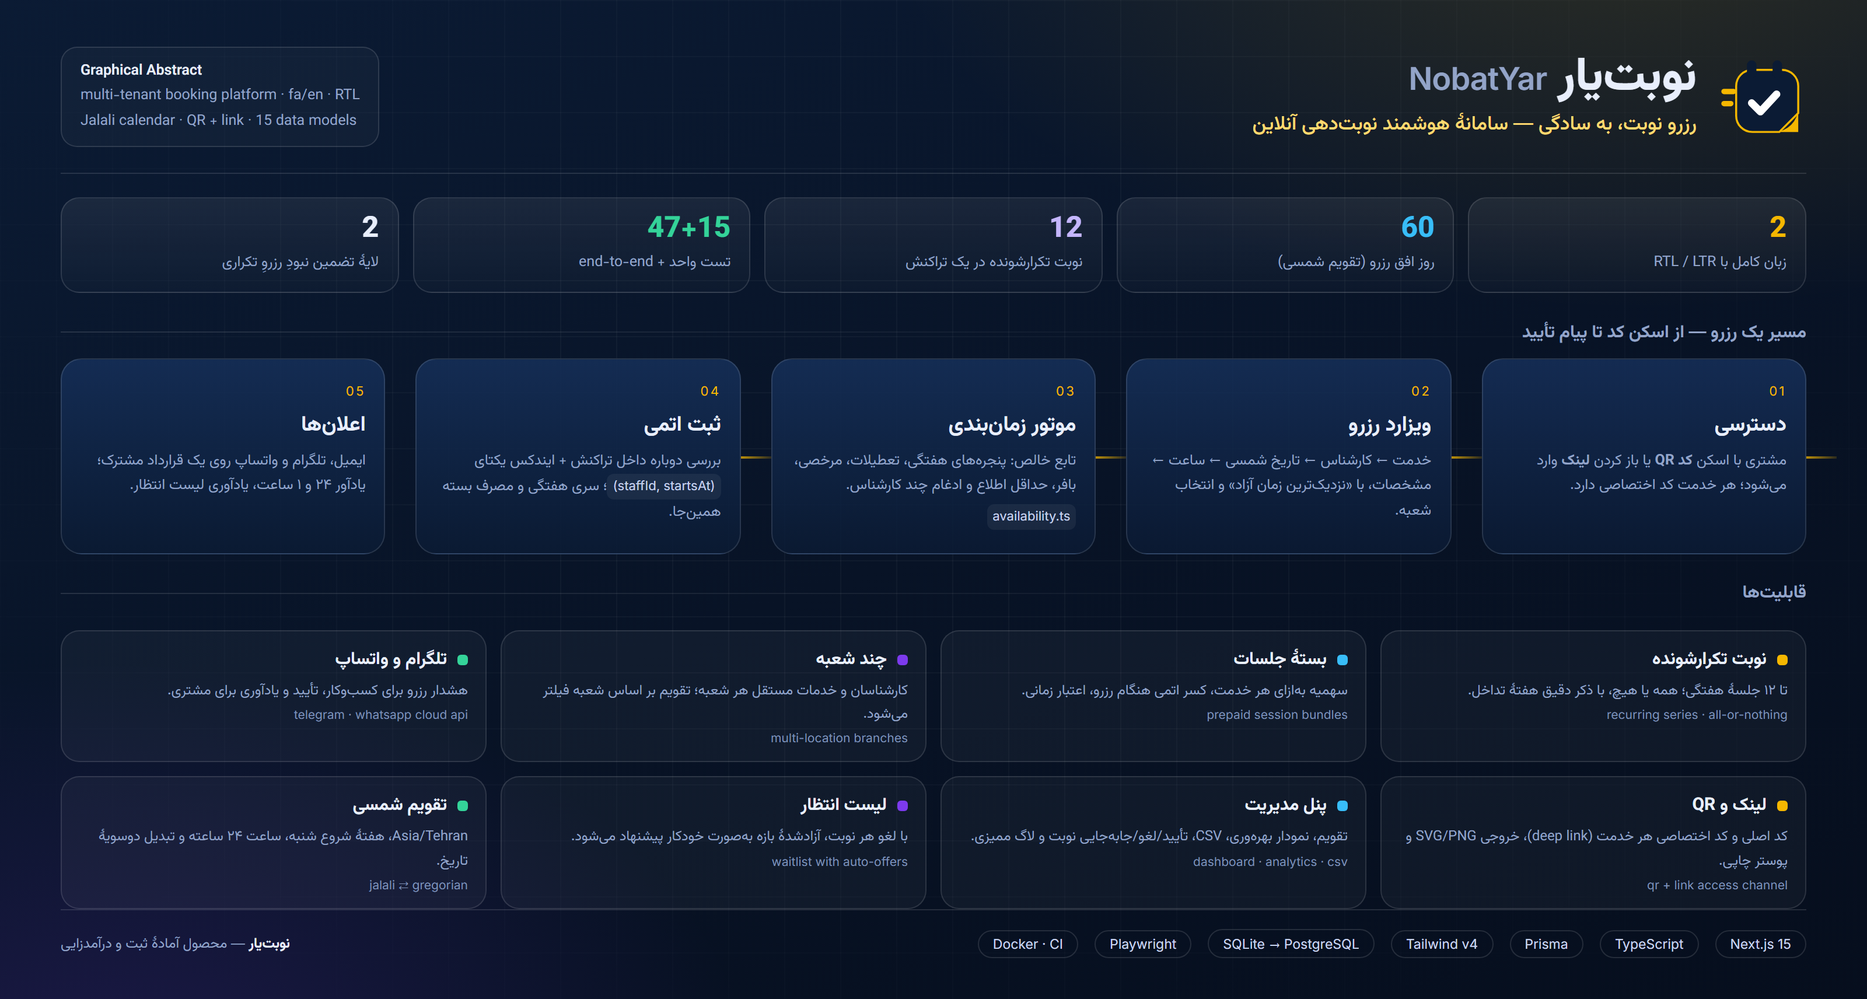
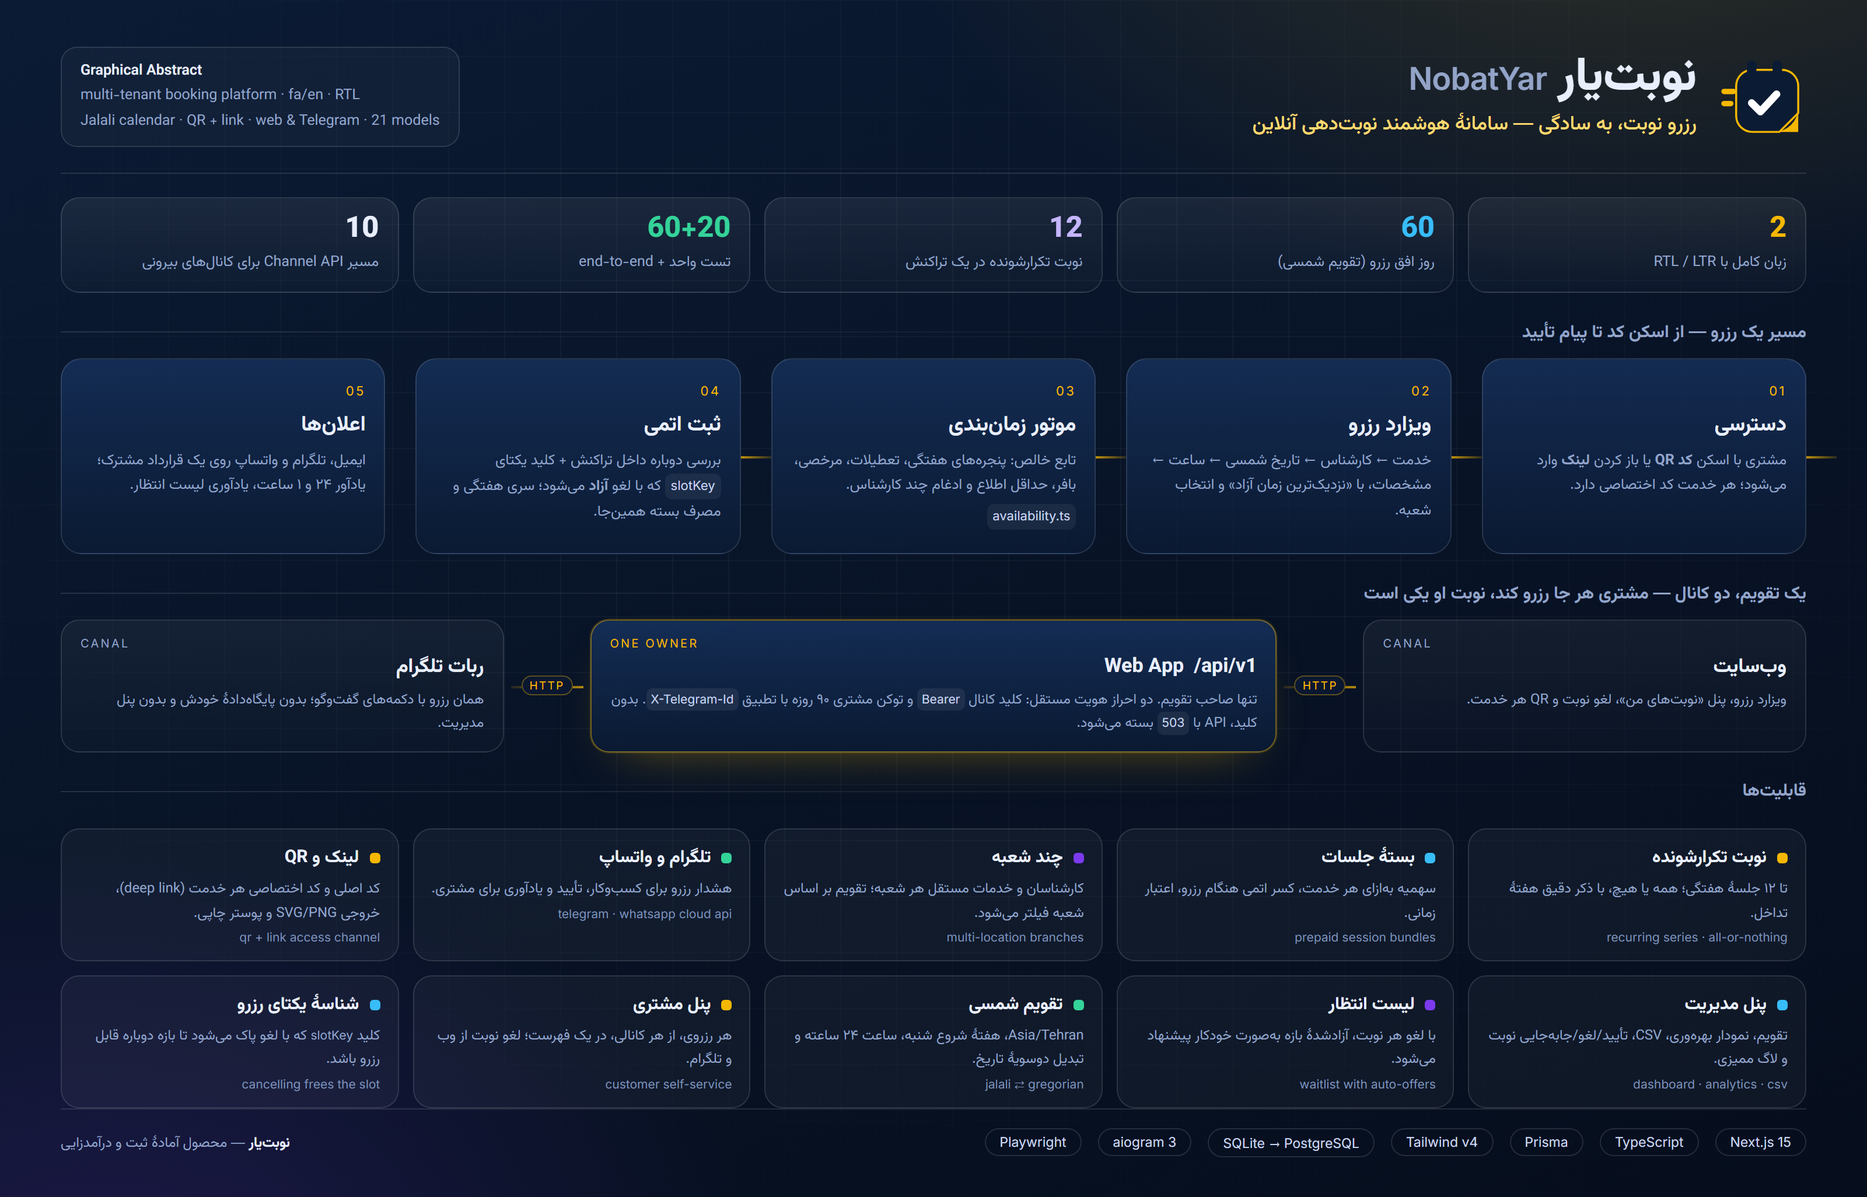
docs: redraw the graphical abstract for the current architecture
The abstract was drawn before the Telegram integration, so it described a
system that no longer exists, and in one place described a design that is a
known bug.

Corrected

* Step 04 claimed the double-booking guarantee was a unique index on
  (staffId, startsAt). That is precisely the design that made a cancelled slot
  permanently unbookable; the schema now uses a nullable unique slotKey. The
  abstract now says the key is cleared on cancellation, and a new feature card
  spells the rule out.
* Tests were 47 + 15; they are 60 unit + 20 end-to-end.
* "15 data models" is now 21, counted from prisma/schema.prisma.
* The last metric counted the channel API as 9 routes. It is 10 endpoints
  across 8 route files, because GET /waitlist existed but was missing from the
  API table in both READMEs -- that omission is where the wrong count came
  from. Added the missing row to both tables and corrected the figure in the
  abstract, GUIDE.md and the root README.
* "Docker . CI" dropped from the footer: the workflow sits in
  nobatyar/.github/workflows/, where GitHub never reads it, so it has never run.

Added

A channel band showing the decision the whole project rests on -- the website
and the Telegram bot as two equal channels around a single owner of the
calendar, with the two-credential contract and the fail-closed 503 in the
middle. The Telegram bot and the customer self-service panel were both absent
from the old abstract.
[…]

diff --git a/nobatyar/docs/graphical-abstract.html b/nobatyar/docs/graphical-abstract.html
@@ -185,10 +185,76 @@
         text-align: right;
       }
 
+      /* ── channels: one calendar, two front-ends ─────────── */
+      .channels {
+        display: grid;
+        grid-template-columns: 1fr 74px 1.55fr 74px 1fr;
+        align-items: stretch;
+        gap: 0;
+      }
+      .chan {
+        background: linear-gradient(180deg, rgba(255, 255, 255, 0.05), rgba(255, 255, 255, 0.015));
+        border: 1px solid var(--line);
+        border-radius: 16px;
+        padding: 13px 16px 14px;
+      }
+      .chan .n {
+        font-family: "Inter", sans-serif;
+        font-size: 10px;
+        letter-spacing: 0.16em;
+        color: var(--muted);
+        direction: ltr;
+        display: block;
+      }
+      .chan h3 { font-size: 17px; font-weight: 700; margin: 2px 0 5px; }
+      .chan p { font-size: 12px; line-height: 1.7; color: var(--muted); }
+      .chan code {
+        font-family: "Inter", monospace;
+        font-size: 10.5px;
+        color: #c7d3ee;
+        background: rgba(255, 255, 255, 0.07);
+        border-radius: 5px;
+        padding: 1px 4px;
+        direction: ltr;
+        display: inline-block;
+      }
+      /* the single owner of the calendar gets the emphasis */
+      .chan.core {
+        background: linear-gradient(180deg, rgba(22, 48, 90, 0.9), rgba(11, 27, 52, 0.9));
+        border-color: rgba(245, 183, 0, 0.45);
+        box-shadow: 0 0 0 1px rgba(245, 183, 0, 0.12), 0 18px 44px -26px rgba(245, 183, 0, 0.5);
+      }
+      .chan.core .n { color: var(--gold); }
+      .chan-arrow {
+        display: grid;
+        place-items: center;
+        position: relative;
+      }
+      .chan-arrow::before {
+        content: "";
+        position: absolute;
+        inset-inline: 6px;
+        top: 50%;
+        height: 2px;
+        background: linear-gradient(90deg, rgba(245, 183, 0, 0.12), rgba(245, 183, 0, 0.7));
+      }
+      .chan-arrow span {
+        position: relative;
+        font-family: "Inter", sans-serif;
+        font-size: 9.5px;
+        letter-spacing: 0.12em;
+        color: var(--gold);
+        background: #0a1730;
+        padding: 2px 6px;
+        border-radius: 999px;
+        border: 1px solid rgba(245, 183, 0, 0.35);
+        direction: ltr;
+      }
+
       /* ── features ───────────────────────────────────────────── */
       .features {
         display: grid;
-        grid-template-columns: repeat(4, 1fr);
+        grid-template-columns: repeat(5, 1fr);
         gap: 12px;
         margin-top: 10px;
       }
@@ -269,7 +335,7 @@
         <div class="kicker">
           <b>Graphical Abstract</b><br />
           multi-tenant booking platform · fa/en · RTL<br />
-          Jalali calendar · QR + link · 15 data models
+          Jalali calendar · QR + link · web &amp; Telegram · 21 models
         </div>
       </header>
 
@@ -277,8 +343,8 @@
         <div class="metric gold"><b>2</b><span>زبان کامل با RTL / LTR</span></div>
         <div class="metric sky"><b>60</b><span>روز افق رزرو (تقویم شمسی)</span></div>
         <div class="metric violet"><b>12</b><span>نوبت تکرارشونده در یک تراکنش</span></div>
-        <div class="metric green"><b>47+15</b><span>تست واحد + end-to-end</span></div>
-        <div class="metric"><b>2</b><span>لایهٔ تضمین نبودِ رزروِ تکراری</span></div>
+        <div class="metric green"><b>60+20</b><span>تست واحد + end-to-end</span></div>
+        <div class="metric"><b>10</b><span>مسیر Channel API برای کانالهای بیرونی</span></div>
       </section>
 
       <div class="section-title">مسیر یک رزرو — از اسکن کد تا پیام تأیید</div>
@@ -303,12 +369,38 @@
         <div class="step">
           <span class="n">04</span>
           <h3>ثبت اتمی</h3>
-          <p>بررسی دوباره داخل تراکنش + ایندکس یکتای <code>(staffId, startsAt)</code>؛ سری هفتگی و مصرف بسته همینجا.</p>
+          <p>بررسی دوباره داخل تراکنش + کلید یکتای <code>slotKey</code> که با لغو <b>آزاد</b> میشود؛ سری هفتگی و مصرف بسته همینجا.</p>
         </div>
         <div class="step">
           <span class="n">05</span>
           <h3>اعلانها</h3>
           <p>ایمیل، تلگرام و واتساپ روی یک قرارداد مشترک؛ یادآور ۲۴ و ۱ ساعت، یادآوری لیست انتظار.</p>
+        </div>
+      </section>
+
+      <div class="section-title">یک تقویم، دو کانال — مشتری هر جا رزرو کند، نوبت او یکی است</div>
+
+      <section class="channels">
+        <div class="chan">
+          <span class="n">CANAL</span>
+          <h3>وبسایت</h3>
+          <p>ویزارد رزرو، پنل «نوبتهای من»، لغو نوبت و QR هر خدمت.</p>
+        </div>
+        <div class="chan-arrow"><span>HTTP</span></div>
+        <div class="chan core">
+          <span class="n">ONE OWNER</span>
+          <h3>Web App &nbsp;/api/v1</h3>
+          <p>
+            تنها صاحب تقویم. دو احراز هویت مستقل: کلید کانال
+            <code>Bearer</code> و توکن مشتری ۹۰ روزه با تطبیق <code>X-Telegram-Id</code>.
+            بدون کلید، API با <code>503</code> بسته میشود.
+          </p>
+        </div>
+        <div class="chan-arrow"><span>HTTP</span></div>
+        <div class="chan">
+          <span class="n">CANAL</span>
+          <h3>ربات تلگرام</h3>
+          <p>همان رزرو با دکمههای گفتوگو؛ بدون پایگاهدادهٔ خودش و بدون پنل مدیریت.</p>
         </div>
       </section>
 
@@ -355,6 +447,16 @@
           <p>Asia/Tehran، هفتهٔ شروع شنبه، ساعت ۲۴ ساعته و تبدیل دوسویهٔ تاریخ.</p>
           <span class="en">jalali ⇄ gregorian</span>
         </div>
+        <div class="feature">
+          <div class="row"><span class="dot" style="background:#f5b700"></span><h4>پنل مشتری</h4></div>
+          <p>هر رزروی، از هر کانالی، در یک فهرست؛ لغو نوبت از وب و تلگرام.</p>
+          <span class="en">customer self-service</span>
+        </div>
+        <div class="feature">
+          <div class="row"><span class="dot" style="background:#38bdf8"></span><h4>شناسهٔ یکتای رزرو</h4></div>
+          <p>کلید <code style="font-family:Inter,monospace;font-size:10.5px">slotKey</code> که با لغو پاک میشود تا بازه دوباره قابل رزرو باشد.</p>
+          <span class="en">cancelling frees the slot</span>
+        </div>
       </section>
 
       <footer>
@@ -363,8 +465,8 @@
         <span class="chip">Prisma</span>
         <span class="chip">Tailwind v4</span>
         <span class="chip">SQLite → PostgreSQL</span>
+        <span class="chip">aiogram 3</span>
         <span class="chip">Playwright</span>
-        <span class="chip">Docker · CI</span>
         <span class="foot-note">
           <b style="color:#e8eefc">نوبتیار</b> — محصول آمادهٔ ثبت و درآمدزایی
         </span>

diff --git a/nobatyar/docs/graphical-abstract.standalone.html b/nobatyar/docs/graphical-abstract.standalone.html
@@ -208,10 +208,76 @@
         text-align: right;
       }
 
+      /* ── channels: one calendar, two front-ends ─────────── */
+      .channels {
+        display: grid;
+        grid-template-columns: 1fr 74px 1.55fr 74px 1fr;
+        align-items: stretch;
+        gap: 0;
+      }
+      .chan {
+        background: linear-gradient(180deg, rgba(255, 255, 255, 0.05), rgba(255, 255, 255, 0.015));
+        border: 1px solid var(--line);
+        border-radius: 16px;
+        padding: 13px 16px 14px;
+      }
+      .chan .n {
+        font-family: "Inter", sans-serif;
+        font-size: 10px;
+        letter-spacing: 0.16em;
+        color: var(--muted);
+        direction: ltr;
+        display: block;
+      }
+      .chan h3 { font-size: 17px; font-weight: 700; margin: 2px 0 5px; }
+      .chan p { font-size: 12px; line-height: 1.7; color: var(--muted); }
+      .chan code {
+        font-family: "Inter", monospace;
+        font-size: 10.5px;
+        color: #c7d3ee;
+        background: rgba(255, 255, 255, 0.07);
+        border-radius: 5px;
+        padding: 1px 4px;
+        direction: ltr;
+        display: inline-block;
+      }
+      /* the single owner of the calendar gets the emphasis */
+      .chan.core {
+        background: linear-gradient(180deg, rgba(22, 48, 90, 0.9), rgba(11, 27, 52, 0.9));
+        border-color: rgba(245, 183, 0, 0.45);
+        box-shadow: 0 0 0 1px rgba(245, 183, 0, 0.12), 0 18px 44px -26px rgba(245, 183, 0, 0.5);
+      }
+      .chan.core .n { color: var(--gold); }
+      .chan-arrow {
+        display: grid;
+        place-items: center;
+        position: relative;
+      }
+      .chan-arrow::before {
+        content: "";
+        position: absolute;
+        inset-inline: 6px;
+        top: 50%;
+        height: 2px;
+        background: linear-gradient(90deg, rgba(245, 183, 0, 0.12), rgba(245, 183, 0, 0.7));
+      }
+      .chan-arrow span {
+        position: relative;
+        font-family: "Inter", sans-serif;
+        font-size: 9.5px;
+        letter-spacing: 0.12em;
+        color: var(--gold);
+        background: #0a1730;
+        padding: 2px 6px;
+        border-radius: 999px;
+        border: 1px solid rgba(245, 183, 0, 0.35);
+        direction: ltr;
+      }
+
       /* ── features ───────────────────────────────────────────── */
       .features {
         display: grid;
-        grid-template-columns: repeat(4, 1fr);
+        grid-template-columns: repeat(5, 1fr);
         gap: 12px;
         margin-top: 10px;
       }
@@ -292,7 +358,7 @@
         <div class="kicker">
           <b>Graphical Abstract</b><br />
           multi-tenant booking platform · fa/en · RTL<br />
-          Jalali calendar · QR + link · 15 data models
+          Jalali calendar · QR + link · web &amp; Telegram · 21 models
         </div>
       </header>
 
@@ -300,8 +366,8 @@
         <div class="metric gold"><b>2</b><span>زبان کامل با RTL / LTR</span></div>
         <div class="metric sky"><b>60</b><span>روز افق رزرو (تقویم شمسی)</span></div>
         <div class="metric violet"><b>12</b><span>نوبت تکرارشونده در یک تراکنش</span></div>
-        <div class="metric green"><b>47+15</b><span>تست واحد + end-to-end</span></div>
-        <div class="metric"><b>2</b><span>لایهٔ تضمین نبودِ رزروِ تکراری</span></div>
+        <div class="metric green"><b>60+20</b><span>تست واحد + end-to-end</span></div>
+        <div class="metric"><b>10</b><span>مسیر Channel API برای کانالهای بیرونی</span></div>
       </section>
 
       <div class="section-title">مسیر یک رزرو — از اسکن کد تا پیام تأیید</div>
@@ -326,12 +392,38 @@
         <div class="step">
           <span class="n">04</span>
           <h3>ثبت اتمی</h3>
-          <p>بررسی دوباره داخل تراکنش + ایندکس یکتای <code>(staffId, startsAt)</code>؛ سری هفتگی و مصرف بسته همینجا.</p>
+          <p>بررسی دوباره داخل تراکنش + کلید یکتای <code>slotKey</code> که با لغو <b>آزاد</b> میشود؛ سری هفتگی و مصرف بسته همینجا.</p>
         </div>
         <div class="step">
           <span class="n">05</span>
           <h3>اعلانها</h3>
           <p>ایمیل، تلگرام و واتساپ روی یک قرارداد مشترک؛ یادآور ۲۴ و ۱ ساعت، یادآوری لیست انتظار.</p>
+        </div>
+      </section>
+
+      <div class="section-title">یک تقویم، دو کانال — مشتری هر جا رزرو کند، نوبت او یکی است</div>
+
+      <section class="channels">
+        <div class="chan">
+          <span class="n">CANAL</span>
+          <h3>وبسایت</h3>
+          <p>ویزارد رزرو، پنل «نوبتهای من»، لغو نوبت و QR هر خدمت.</p>
+        </div>
+        <div class="chan-arrow"><span>HTTP</span></div>
+        <div class="chan core">
+          <span class="n">ONE OWNER</span>
+          <h3>Web App &nbsp;/api/v1</h3>
+          <p>
+            تنها صاحب تقویم. دو احراز هویت مستقل: کلید کانال
+            <code>Bearer</code> و توکن مشتری ۹۰ روزه با تطبیق <code>X-Telegram-Id</code>.
+            بدون کلید، API با <code>503</code> بسته میشود.
+          </p>
+        </div>
+        <div class="chan-arrow"><span>HTTP</span></div>
+        <div class="chan">
+          <span class="n">CANAL</span>
+          <h3>ربات تلگرام</h3>
+          <p>همان رزرو با دکمههای گفتوگو؛ بدون پایگاهدادهٔ خودش و بدون پنل مدیریت.</p>
         </div>
       </section>
 
@@ -378,6 +470,16 @@
           <p>Asia/Tehran، هفتهٔ شروع شنبه، ساعت ۲۴ ساعته و تبدیل دوسویهٔ تاریخ.</p>
           <span class="en">jalali ⇄ gregorian</span>
         </div>
+        <div class="feature">
+          <div class="row"><span class="dot" style="background:#f5b700"></span><h4>پنل مشتری</h4></div>
+          <p>هر رزروی، از هر کانالی، در یک فهرست؛ لغو نوبت از وب و تلگرام.</p>
+          <span class="en">customer self-service</span>
+        </div>
+        <div class="feature">
+          <div class="row"><span class="dot" style="background:#38bdf8"></span><h4>شناسهٔ یکتای رزرو</h4></div>
+          <p>کلید <code style="font-family:Inter,monospace;font-size:10.5px">slotKey</code> که با لغو پاک میشود تا بازه دوباره قابل رزرو باشد.</p>
+          <span class="en">cancelling frees the slot</span>
+        </div>
       </section>
 
       <footer>
@@ -386,8 +488,8 @@
         <span class="chip">Prisma</span>
         <span class="chip">Tailwind v4</span>
         <span class="chip">SQLite → PostgreSQL</span>
+        <span class="chip">aiogram 3</span>
         <span class="chip">Playwright</span>
-        <span class="chip">Docker · CI</span>
         <span class="foot-note">
           <b style="color:#e8eefc">نوبتیار</b> — محصول آمادهٔ ثبت و درآمدزایی
         </span>

diff --git a/GUIDE.md b/GUIDE.md
@@ -255,7 +255,7 @@ left-to-right, and the switch in the header keeps your place.
 |---|---|
 | `/api/health` | Liveness, plus row counts — good for uptime checks |
 | `/api/qr` | Renders a QR code as SVG for any booking URL — for embedding in your own site |
-| `/api/v1/*` | The channel API (9 routes) — see [section 12](#12-the-channel-api-for-developers) |
+| `/api/v1/*` | The channel API (10 endpoints) — see [section 12](#12-the-channel-api-for-developers) |
 | `/api/cron/reminders` | The reminder sweep — see [section 11](#11-notifications) |
 
 ### Demo accounts (after `db:seed`)
@@ -512,7 +512,7 @@ so when a customer says "I never got the message" you can actually find out.
 
 ## 12. The Channel API (for developers)
 
-Nine routes under `/api/v1`, all JSON, all bilingual via `?locale=fa|en`.
+Ten endpoints under `/api/v1`, all JSON, all bilingual via `?locale=fa|en`.
 
 | Route | What it does |
 |---|---|
@@ -523,7 +523,8 @@ Nine routes under `/api/v1`, all JSON, all bilingual via `?locale=fa|en`.
 | `POST /appointments` | Book (supports recurring series and packages) |
 | `POST /appointments/<code>/cancel` | Cancel — releases the slot |
 | `GET /packages` | Packages and the caller's remaining sessions |
-| `GET`/`POST /waitlist` | Read and join the waitlist |
+| `GET /waitlist` | The caller's waitlist entries |
+| `POST /waitlist` | Join the waitlist for a time that is taken |
 | `POST /support` | Raise a support ticket from a channel |
 
 ### Authentication — two credentials, because they answer two different questions

diff --git a/README.md b/README.md
@@ -128,7 +128,7 @@ python main.py
 | **Dashboard** | 11 sections: overview KPIs and charts, calendar, appointments, services, staff, waitlist, link/QR, packages, branches, notifications, settings. |
 | **Notifications** | Telegram, WhatsApp and email behind one contract, switched on purely by environment variables. Every delivery is logged and viewable. |
 | **i18n** | Full Persian (RTL) and English (LTR) catalogues, Jalali ⇄ Gregorian conversion, `/fa` and `/en` routing, `hreflang` alternates. |
-| **Channel API** | `/api/v1` — 9 routes, two credentials, fails closed. Today the Telegram bot uses it; tomorrow a call centre could. |
+| **Channel API** | `/api/v1` — 10 endpoints, two credentials, fails closed. Today the Telegram bot uses it; tomorrow a call centre could. |
 
 ### The detail worth knowing: cancelled appointments free their slot
 

diff --git a/nobatyar/README.md b/nobatyar/README.md
@@ -217,6 +217,7 @@ calendar will eventually disagree, and that disagreement is a double booking.
 | `GET` | `/api/v1/appointments` | the customer's own list (`scope=upcoming\|history\|all`) |
 | `POST` | `/api/v1/appointments/{code}/cancel` | cancel, then offer the freed slot to the waitlist |
 | `GET` | `/api/v1/packages` | remaining prepaid sessions, per service |
+| `GET` | `/api/v1/waitlist` | the caller's waitlist entries |
 | `POST` | `/api/v1/waitlist` | "tell me when something frees up" |
 | `POST` | `/api/v1/support` | a message into the same ticket queue the website uses |
 
